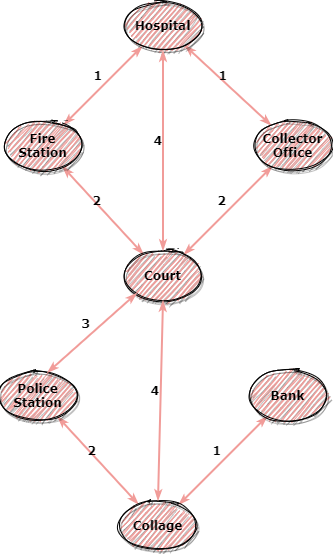
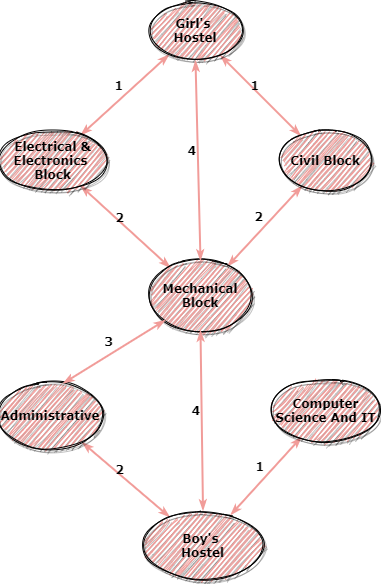
improving test cases and diagrams

diff --git a/src/test/java/com/pranab/playwithgraphs/AdjacencyListUnDirectedWeightedGraphTest.java b/src/test/java/com/pranab/playwithgraphs/AdjacencyListUnDirectedWeightedGraphTest.java
@@ -396,32 +396,47 @@ class AdjacencyListUnDirectedWeightedGraphTest {
 	@Test
 	void testMinimumSpaningTree() {
 		AdjancencyListUnDirectedWeightedGraph<String, String, Distance> storage = new AdjancencyListUnDirectedWeightedGraph<>();
-		storage.createNode("hospital", "Hospital");
-		storage.createNode("collectorOffice", "Collector Office");
-		storage.createNode("fireStation", "Fire Station");
-		storage.createNode("court", "Court");
-		storage.createNode("policeStation", "Police Station");
-		storage.createNode("college", "College");
-		storage.createNode("bank", "Bank");
+		storage.createNode("girlhostel", "Girl's Hostel");
+		storage.createNode("electrical","Electrical and Electronics Block");
+		storage.createNode("civil", "Civil Block");
+		storage.createNode("mechanical", "Mechanical Block");
+		storage.createNode("admin", "Administrative Block and Library");
+		storage.createNode("boyshostel", "Boy's Hostel");
+		storage.createNode("computer", "Computer Science and IT block");
 		
-		storage.createEdge("hospital", "fireStation", new Distance(1));
-		storage.createEdge("fireStation", "court", new Distance(2));
-		storage.createEdge("hospital", "collectorOffice", new Distance(1));
-		storage.createEdge("collectorOffice", "court", new Distance(2));
-		storage.createEdge("hospital", "court", new Distance(4));
-		storage.createEdge("court", "policeStation", new Distance(3));
-		storage.createEdge("policeStation", "college", new Distance(2));
-		storage.createEdge("college", "bank", new Distance(1));
-		storage.createEdge("court", "college", new Distance(4));
+		storage.createEdge("girlhostel", "electrical", new Distance(1));
+		storage.createEdge("electrical", "mechanical", new Distance(2));
+		storage.createEdge("girlhostel", "civil", new Distance(1));
+		storage.createEdge("civil", "mechanical", new Distance(2));
+		storage.createEdge("girlhostel", "mechanical", new Distance(4));
+		storage.createEdge("mechanical", "admin", new Distance(3));
+		storage.createEdge("admin", "boyshostel", new Distance(2));
+		storage.createEdge("boyshostel", "computer", new Distance(1));
+		storage.createEdge("boyshostel", "mechanical", new Distance(4));
 		
 		List<SpanningEdge<String>> paths=storage.minimumSpaningTree();
 		assertAll(()->{assertEquals(7, paths.size());},
 				()->{assertEquals(0,paths.get(0).getScore());},
 				()->{assertEquals(null,paths.get(0).getSourceKey());},
-				()->{assertEquals("policeStation",paths.get(0).getTargetKey());},
-				()->{assertEquals(2,paths.get(1).getScore());},
-				()->{assertEquals("policeStation",paths.get(1).getSourceKey());},
-				()->{assertEquals("college",paths.get(1).getTargetKey());});
+				()->{assertEquals("computer",paths.get(0).getTargetKey());},
+				()->{assertEquals(1,paths.get(1).getScore());},
+				()->{assertEquals("computer",paths.get(1).getSourceKey());},
+				()->{assertEquals("boyshostel",paths.get(1).getTargetKey());},
+				()->{assertEquals(2,paths.get(2).getScore());},
+				()->{assertEquals("boyshostel",paths.get(2).getSourceKey());},
+				()->{assertEquals("admin",paths.get(2).getTargetKey());},
+				()->{assertEquals(3,paths.get(3).getScore());},
+				()->{assertEquals("admin",paths.get(3).getSourceKey());},
+				()->{assertEquals("mechanical",paths.get(3).getTargetKey());},
+				()->{assertEquals(2,paths.get(4).getScore());},
+				()->{assertEquals("mechanical",paths.get(4).getSourceKey());},
+				()->{assertEquals("electrical",paths.get(4).getTargetKey());},
+				()->{assertEquals(1,paths.get(5).getScore());},
+				()->{assertEquals("electrical",paths.get(5).getSourceKey());},
+				()->{assertEquals("girlhostel",paths.get(5).getTargetKey());},
+				()->{assertEquals(1,paths.get(6).getScore());},
+				()->{assertEquals("girlhostel",paths.get(6).getSourceKey());},
+				()->{assertEquals("civil",paths.get(6).getTargetKey());});
 	}
 	
 	private class AnimeWeights implements Weight {
